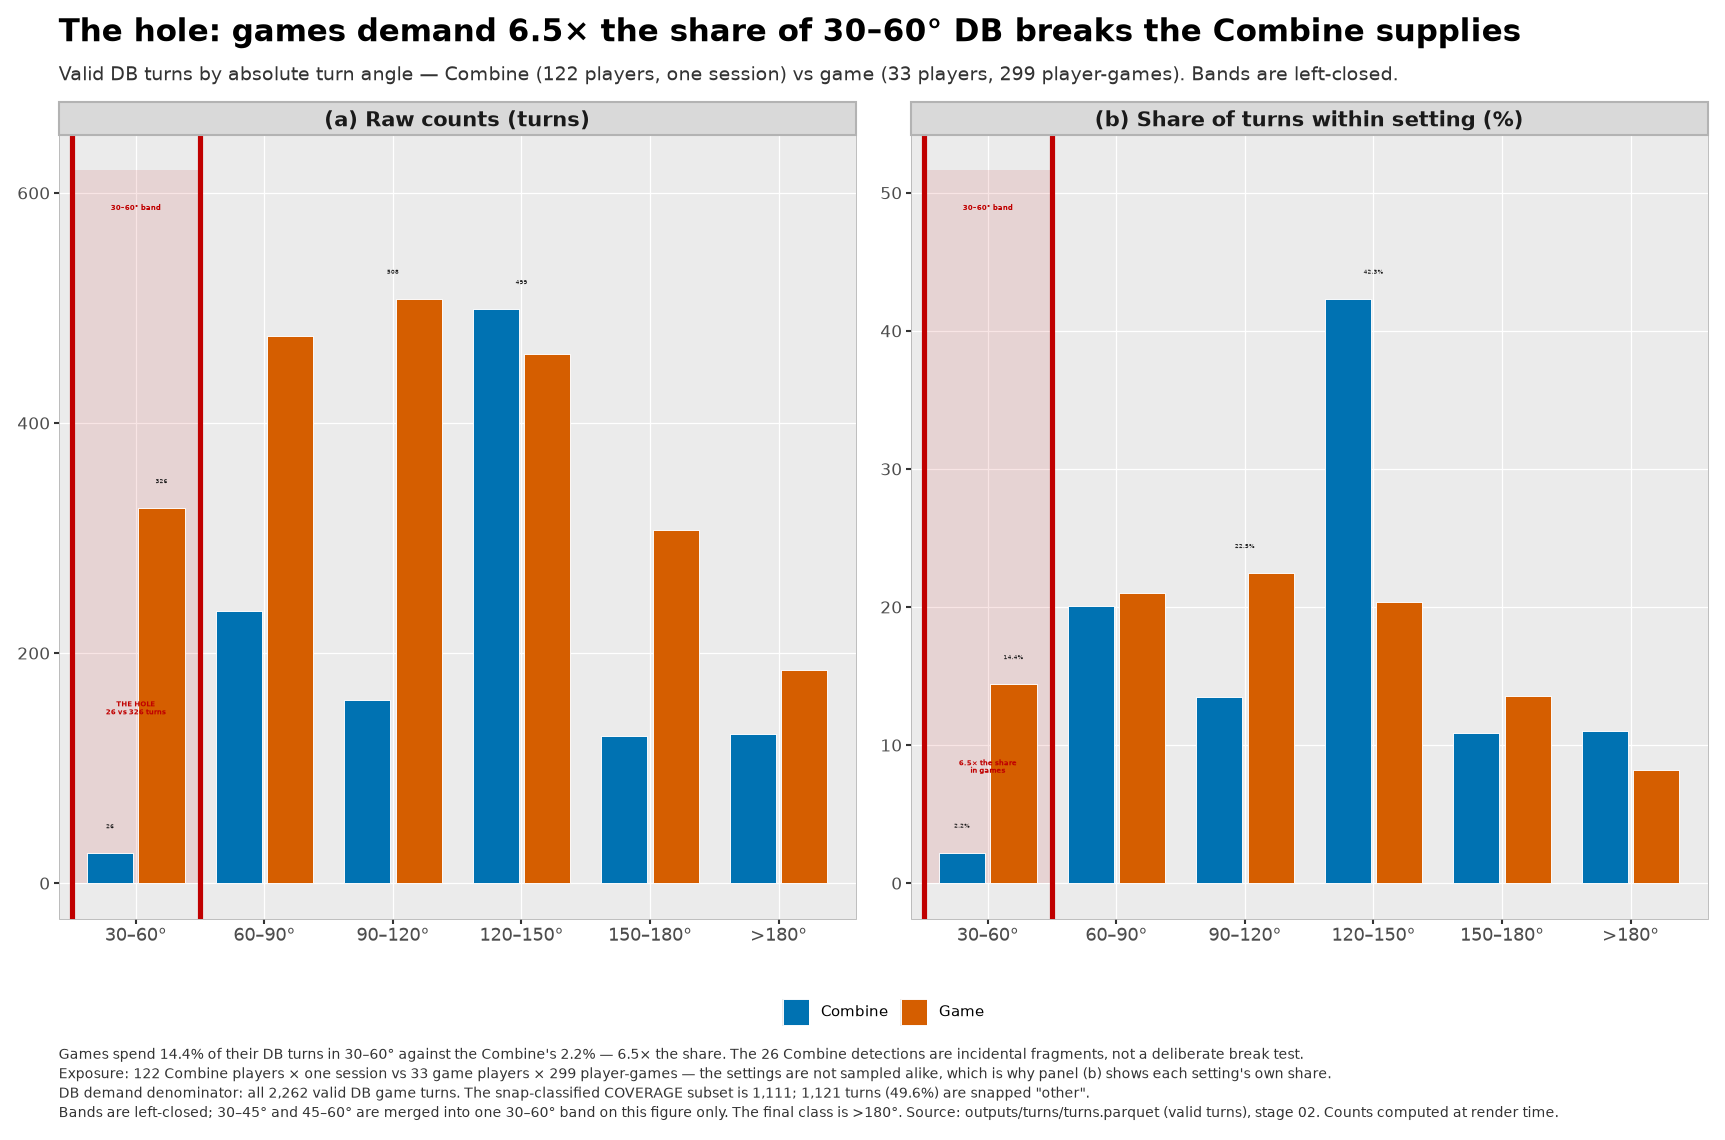
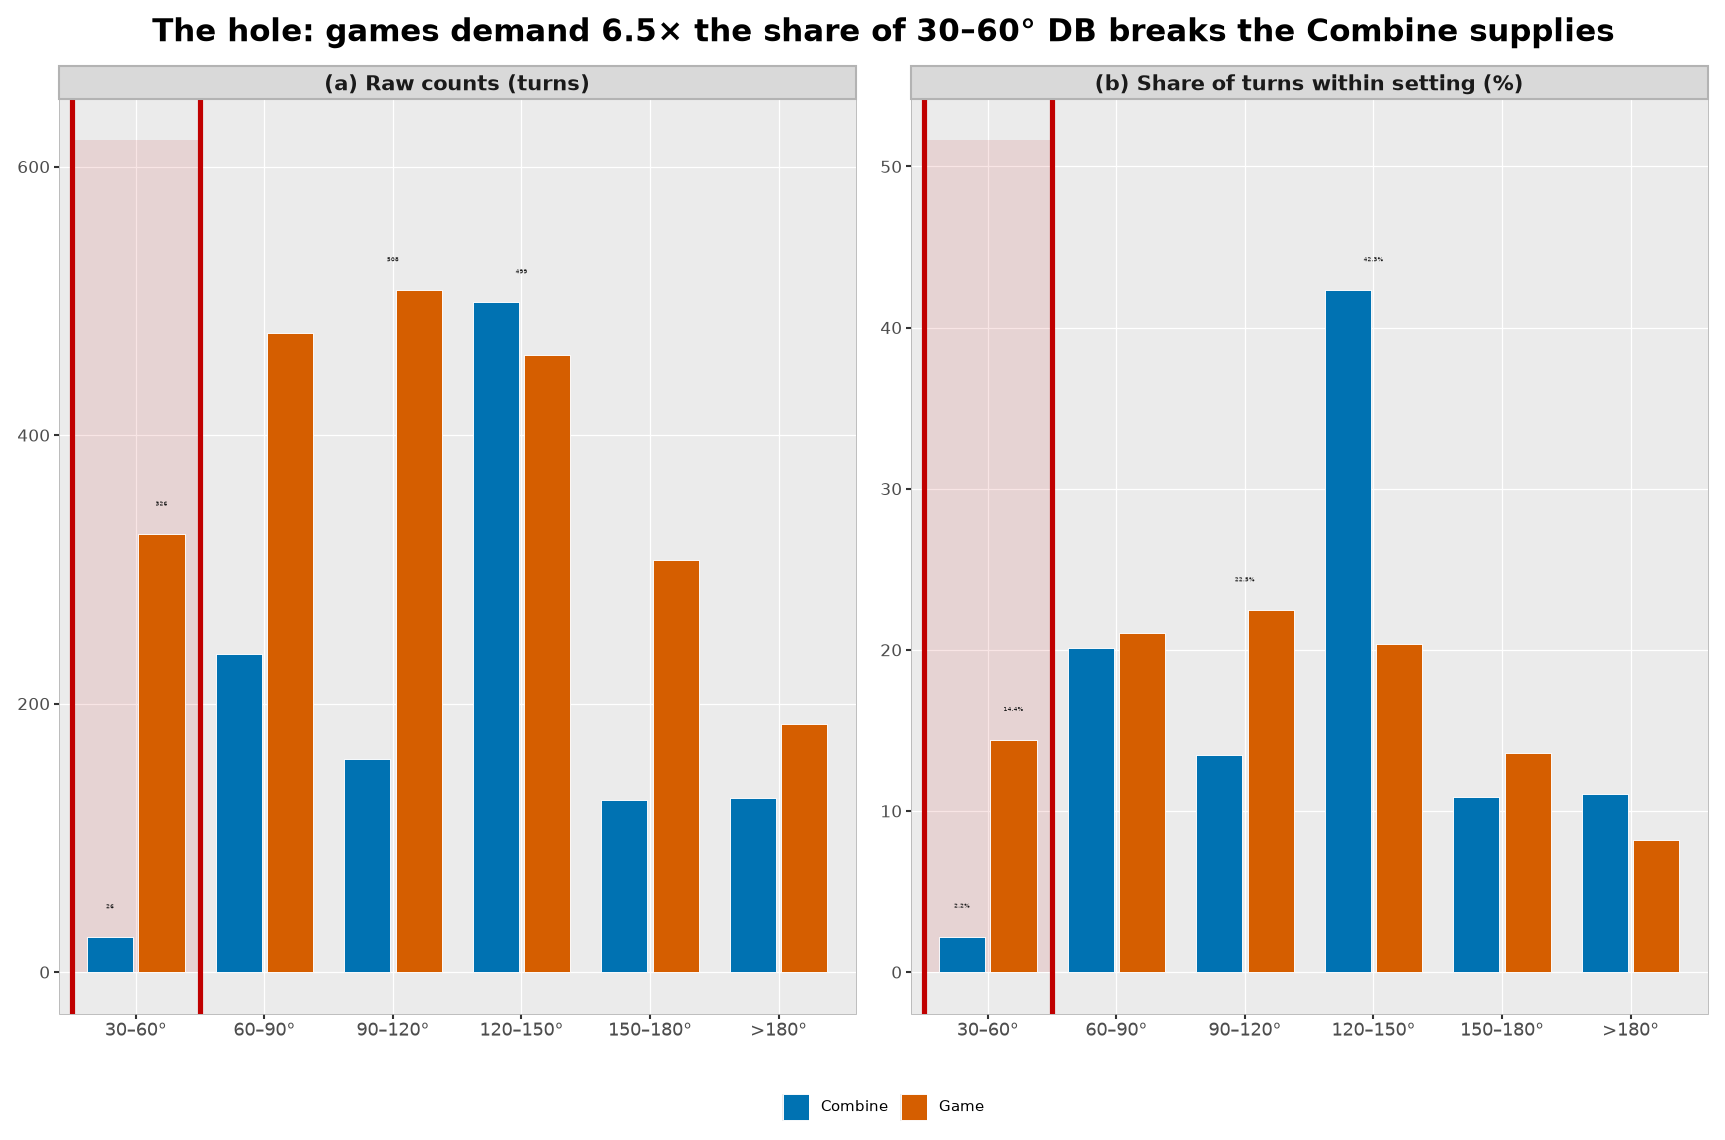
Figure 1: heading, bands and bars only — subtitle, caption and red callouts gone (D183)

diff --git a/src/bdb27/figures.py b/src/bdb27/figures.py
@@ -406,7 +406,13 @@ def _labels(table: pd.DataFrame, bands: list[str]) -> pd.DataFrame:
 
 
 def _annotations(table: pd.DataFrame, context: dict) -> tuple[pd.DataFrame, dict]:
-    """Highlight rectangles (one per panel) and the two callout texts."""
+    """Highlight rectangles (one per panel) and the two callout texts.
+
+    The rectangles are still drawn. The callout texts are not (D183,
+    2026-11-11): Conor removed the red on-plot copy, so ``ann["text"]`` is
+    retained for the contract tests and the ratio/counts it carries still
+    feed the title, the manifest and the CSV — only the drawing went.
+    """
     frame = plot_frame(table)
     rects = []
     for panel, part in frame.groupby("panel", observed=True):
@@ -453,44 +459,22 @@ def _annotations(table: pd.DataFrame, context: dict) -> tuple[pd.DataFrame, dict
                   "ratio": ratio, "combine_share": cs, "game_share": gs}
 
 
-def build_plot(table: pd.DataFrame, context: dict, cfg: common.Config) -> ggplot:
-    frame = plot_frame(table)
-    labels = _labels(table, context["bands"])
-    rect, ann = _annotations(table, context)
-    texts = ann["text"]
-    # Style always from figures.focus_band; geometry from this figure's own
-    # display bands (figure 1 merges 30-45 and 45-60 into one 30-60 band).
-    configured = focus_band(cfg)
-    focus = focus_band(cfg, edges=[float(e) for e in context["edges"][:2]])
-    if float(context["edges"][0]) != configured["low"]:
-        raise ValueError(
-            f"{STAGE}: figure 1 highlights its first display band, which must "
-            f"start at the configured focus floor {configured['low']:g}°; got "
-            f"{float(context['edges'][0]):g}°")
-    focus_label = pd.DataFrame([
-        {"panel": panel,
-         "x": 1.0,
-         "y": float(part["value"].max()) * 1.15,
-         "label": f"{focus['label']} band"}
-        for panel, part in frame.groupby("panel", observed=True)
-    ])
+def _caption_lines(context: dict, ann: dict) -> list[str]:
+    """Caption lines; every number comes from the rendered table.
 
+    Kept for the manifest/CSV wording, which still owns every caveat (D183,
+    2026-11-11): the figure draws no caption — Conor asked for the heading and
+    the data, nothing else — so this function is currently uncalled. Its
+    numbers still have to be true if it is ever drawn again.
+    """
     c = ann["combine"]
-    g = ann["game"]
     players = context["players_by_setting"]
     pg = context["player_games"]
     total = context["n_by_setting"]["game"]
     cov = context["coverage_turns"]
     other = context["other_turns"]
     other_pct = context["other_share"] * 100.0
-
-    title = (f"The hole: games demand {ann['ratio']:.1f}× the share of 30–60° "
-             "DB breaks the Combine supplies")
-    subtitle = (f"Valid {context['position']} turns by absolute turn angle — "
-                f"Combine ({players['combine']} players, one session) vs game "
-                f"({players['game']} players, {pg} player-games). Bands are left-closed.")
-
-    caption = "\n".join([
+    return [
         (f"Games spend {ann['game_share'] * 100.0:.1f}% of their DB turns in "
          f"30–60° against the Combine's {ann['combine_share'] * 100.0:.1f}% — "
          f"{ann['ratio']:.1f}× the share. The {c} Combine detections are "
@@ -504,9 +488,32 @@ def build_plot(table: pd.DataFrame, context: dict, cfg: common.Config) -> ggplot
         ("Bands are left-closed; 30–45° and 45–60° are merged into one 30–60° band "
          "on this figure only. The final class is >180°. Source: "
          "outputs/turns/turns.parquet (valid turns), stage 02. Counts computed at render time."),
-    ])
+    ]
+
+
+def build_plot(table: pd.DataFrame, context: dict, cfg: common.Config) -> ggplot:
+    frame = plot_frame(table)
+    labels = _labels(table, context["bands"])
+    rect, ann = _annotations(table, context)
+    # Style always from figures.focus_band; geometry from this figure's own
+    # display bands (figure 1 merges 30-45 and 45-60 into one 30-60 band).
+    configured = focus_band(cfg)
+    focus = focus_band(cfg, edges=[float(e) for e in context["edges"][:2]])
+    if float(context["edges"][0]) != configured["low"]:
+        raise ValueError(
+            f"{STAGE}: figure 1 highlights its first display band, which must "
+            f"start at the configured focus floor {configured['low']:g}°; got "
+            f"{float(context['edges'][0]):g}°")
+
+    title = (f"The hole: games demand {ann['ratio']:.1f}× the share of 30–60° "
+             "DB breaks the Combine supplies")
 
     dodge = position_dodge(width=0.8)
+    # Heading, bands and bars only (D183, 2026-11-11): no subtitle under the
+    # heading, no caption at the foot, and none of the three red callouts
+    # ("THE HOLE …", "…× the share", "… band"). The band tint and its two
+    # rules stay; every caveat the caption carried is in the CSV and the
+    # manifest entry, which are the provenance record.
     plot = (
         ggplot(frame, aes(x="band", y="value", fill="setting"))
         + geom_rect(data=rect, mapping=aes(xmin="xmin", xmax="xmax",
@@ -520,19 +527,11 @@ def build_plot(table: pd.DataFrame, context: dict, cfg: common.Config) -> ggplot
                                              group="setting"),
                     position=dodge, size=2.9, colour="#1A1A1A", va="bottom",
                     show_legend=False)
-        + geom_text(data=texts, mapping=aes(x="x", y="y", label="label"),
-                    inherit_aes=False, size=3.2, colour=focus["colour"],
-                    fontweight="bold",
-                    ha="center", va="center")
-        + geom_text(data=focus_label, mapping=aes(x="x", y="y", label="label"),
-                    inherit_aes=False, size=3.3, colour=focus["colour"],
-                    fontweight="bold", ha="center", va="bottom")
         + facet_wrap("~ panel", nrow=1, scales="free_y")
         + scale_fill_manual(values=[PALETTE["combine"], PALETTE["game"]],
                             labels=[COMBINE_LABEL, GAME_LABEL], name=None)
         + scale_x_discrete(limits=list(context["bands"]))
-        + labs(title=title, subtitle=subtitle, caption=caption,
-               x=None, y=None)
+        + labs(title=title, x=None, y=None)
         + theme_bw(base_size=9)
         + theme(
             figure_size=(float(cfg.get("figures.hole.width_in")),
@@ -544,9 +543,6 @@ def build_plot(table: pd.DataFrame, context: dict, cfg: common.Config) -> ggplot
             strip_background=element_rect(fill="#D9D9D9", colour="#B3B3B3"),
             strip_text=element_text(weight="bold", size=10),
             plot_title=element_text(size=15, weight="bold"),
-            plot_subtitle=element_text(size=9.0, colour="#333333"),
-            plot_caption=element_text(size=6.9, colour="#333333", ha="left",
-                                      linespacing=1.35),
             axis_title_x=element_blank(),
             axis_title_y=element_blank(),
             axis_text_x=element_text(size=8.5),

diff --git a/tests/test_figures_stage.py b/tests/test_figures_stage.py
@@ -464,6 +464,111 @@ def test_csv_matches_artefact_counts_for_every_band(rendered):
     _check_counts(csv_df, turns, HOLE_EDGES)
 
 
+def _hole_cells(rendered):
+    """Figure 1's table, context and config, rebuilt from the fixture render."""
+    from bdb27 import common, figures
+
+    turns = pd.read_parquet(rendered["tmp"] / "outputs" / "turns" / "turns.parquet")
+    cfg = common.load_config(rendered["cfg"])
+    edges = [float(x) for x in
+             cfg.get("figures.hole.plot_bands.turn_angle_deg")]
+    overflow = str(cfg.get("figures.hole.bands.overflow_label"))
+    position = str(cfg.get("figures.hole.position_group"))
+    table, context = figures.band_table(turns, edges, overflow, position)
+    return table, context, cfg
+
+
+def test_hole_draws_a_heading_and_nothing_else(rendered):
+    """D183: heading, bands and bars only — no subtitle, caption or red text."""
+    import matplotlib
+    import matplotlib.pyplot as plt
+
+    from bdb27 import figures
+
+    table, context, cfg = _hole_cells(rendered)
+    plot = figures.build_plot(table, context, cfg)
+    fig = plot.draw()
+    try:
+        visible = [t.get_text() for t in fig.texts
+                   if t.get_visible() and t.get_text().strip()]
+        headings = [text for text in visible if text.startswith("The hole:")]
+        assert len(headings) == 1, (
+            f"figure 1 must draw exactly one heading, got {visible}")
+        assert headings[0] == (
+            "The hole: games demand 6.5× the share of 30–60° DB breaks the "
+            "Combine supplies")
+        assert visible == headings, (
+            f"unexpected figure-level text: {visible}")
+
+        drawn = "\n".join(
+            [t.get_text() for t in fig.texts if t.get_visible()]
+            + [t.get_text() for ax in fig.axes for t in ax.texts
+               if t.get_visible()]
+            + [t.get_text() for ax in fig.axes for t in ax.get_xticklabels()
+               if t.get_visible()]
+            + [t.get_text() for ax in fig.axes for t in ax.get_yticklabels()
+               if t.get_visible()])
+        assert "Valid DB turns by absolute turn angle" not in drawn, (
+            "the subtitle is still drawn")
+        assert "incidental fragments, not a deliberate break test" not in drawn, (
+            "the caption block is still drawn at the foot of the figure")
+        assert "DB demand denominator" not in drawn, (
+            "the caption block is still drawn at the foot of the figure")
+        assert "THE HOLE" not in drawn, (
+            "the panel (a) red callout is still drawn")
+        assert "× the share\nin games" not in drawn, (
+            "the panel (b) red ratio callout is still drawn")
+        assert "30–60° band" not in drawn, (
+            "the red focus-band tag is still drawn")
+
+        # No text at all in the focus colour: the three callouts were the only
+        # red text, and the band tint/rules are not text.
+        from matplotlib.colors import to_hex
+        red_text = [t.get_text() for t in fig.findobj(matplotlib.text.Text)
+                    if t.get_visible() and t.get_text().strip()
+                    and to_hex(t.get_color()).lower() == "#c00000"]
+        assert red_text == [], f"red on-plot text survived: {red_text}"
+
+        # Kept by the same change: the bar data labels, band tick labels,
+        # facet strips and the colour legend.
+        all_text = [t.get_text() for t in fig.findobj(matplotlib.text.Text)
+                    if t.get_visible() and t.get_text().strip()]
+        for label in ("26", "326", "2.2%", "42.3%"):
+            assert label in all_text, f"bar data label {label} disappeared"
+        for band in ("30–60°", "60–90°", "90–120°", "120–150°",
+                     "150–180°", ">180°"):
+            assert band in all_text, f"band label {band} disappeared"
+        assert "Combine" in all_text and "Game" in all_text, (
+            "the colour legend labels must stay drawn")
+        assert "(a) Raw counts (turns)" in all_text
+        assert "(b) Share of turns within setting (%)" in all_text
+    finally:
+        plt.close(fig)
+
+
+def test_hole_canvas_has_no_dead_band(rendered):
+    """The freed subtitle/caption space goes to the plot, not to white bands."""
+    import matplotlib.pyplot as plt
+
+    from bdb27 import figures
+
+    table, context, cfg = _hole_cells(rendered)
+    fig = figures.build_plot(table, context, cfg).draw()
+    out = rendered["tmp"] / "hole_canvas.png"
+    try:
+        fig.savefig(out, dpi=150, facecolor="white",
+                    metadata={"Software": "bdb27-figures"})
+    finally:
+        plt.close(fig)
+    with Image.open(out) as im:
+        pixels = np.asarray(im.convert("RGB"))
+    rows = np.where(np.any(pixels < 250, axis=2).any(axis=1))[0]
+    top_blank = int(rows.min())
+    bottom_blank = int(pixels.shape[0] - 1 - rows.max())
+    assert top_blank <= 30, f"{top_blank} px of white above the heading"
+    assert bottom_blank <= 30, f"{bottom_blank} px of white below the legend"
+
+
 def test_provenance_stamp_in_csv_and_manifest(rendered):
     csv_df = pd.read_csv(rendered["csv"])
     assert csv_df["stamp"].eq(STAMP).all()

diff --git a/notes/decisions.md b/notes/decisions.md
@@ -7104,3 +7104,74 @@ the two caption-prose tests read the retained uncalled caption builder. In
 `get_colors()`: with the callout text gone, figure 5's configured focus colour
 reaches the canvas through the band rules (`LineCollection`), which the old
 walk could not see.
+
+### D183 (extended) — figure 1 carries a heading, bands and bars, nothing else · 2026-11-11 09:40
+
+**The instruction (Conor, 2026-11-11 09:13, verbatim, sent against the rendered
+image).** "In this plot 'the hole, game demands 6.5x the share 30 to 60...'
+Remove the text under the title, the red text on the plot, and the text
+underneath". This is the treatment figures 18 (`06702a0`) and 5 (`670a790`)
+already received, now applied to figure 1; the figure, its contract and its
+caveats are the same artefact, so D183 is extended rather than a new decision
+opened.
+
+**What was removed.** Four text blocks and nothing else. (1) The subtitle under
+the heading (`labs(subtitle=…)`), the grey "Valid DB turns by absolute turn
+angle — Combine (N players, one session) vs game (N players, N player-games).
+Bands are left-closed." The bold heading stays, and it keeps the live ratio
+("6.5×"). (2) The whole bottom caption block (`labs(caption=…)`), all four
+caption lines — the exposure, denominator, merge and provenance sentences.
+Nothing textual remains at the foot except the Combine/Game legend. (3) All
+three red on-plot texts, all in `figures.focus_band.colour` (#C00000): the
+panel (a) callout "THE HOLE\n{c} vs {g} turns", the panel (b) callout
+"{ratio:.1f}× the share\nin games", and the per-panel "{focus['label']} band"
+tag. The band tint rectangle, its two vertical rules and the panel border stay
+exactly as drawn.
+
+**What the removal is not.** No number, caveat or claim was dropped from the
+artefact. The caption construction moved into `_caption_lines()`, which builds
+the same prose from the same render-time values and is currently uncalled; its
+docstring says so, following `_da_caption` on figure 18 and
+`_all_positions_caption()` on figure 5. `_annotations()` still returns the same
+rectangles, callout strings, counts and ratio: the strings no longer reach the
+canvas, but `ann["ratio"]` still feeds the title and `ann["combine"]`,
+`ann["game"]`, `ann["combine_share"]`, `ann["game_share"]` still feed the
+manifest. The two guards are untouched and still refuse: the first-band-is-the-
+largest-proportional-shortfall check inside `_annotations()`, and the
+`context["edges"][0]` focus-floor check inside `build_plot()`. Only the drawing
+went. The proof that this is a drawing-only change is `fig_the_hole.csv`:
[1 lines of base64/hex data omitted]
+identical before and after.
+
+**Layout.** With the subtitle and caption gone the panels and legend reflowed to
+fill the canvas; no config change was needed and `config.yaml` is untouched.
+Canvas is 11.5 × 7.6 in at 150 dpi = 1725 × 1140 px (unchanged). Measured on the
+committed render: top white band 17 px (0.11 in above the heading), bottom white
+band 19 px (0.13 in below the legend), left/right 18/16 px. The heading's bottom
+sits at 48.8 px and the facet strips start at 74.4 px — a 25.6 px (0.17 in)
+heading gap. The longest blank vertical run anywhere is 58 px (0.39 in), the
+interior gap between the band tick labels (bottom 1,039.8 px) and the legend
+text (top 1,099.4 px); both canvas edges are filled.
+
+**Draw unchanged.** The paired bars and their dodging, the dark data labels on
+the bars (counts in panel (a), percentages in panel (b)), the band tick labels,
+the facet strips, the panel background and border, the band tint and its two
+red rules, and the bottom Combine/Game legend are all exactly as before. Only
+the four text blocks above stopped being drawn.
+
+**Proof nothing else moved.** `outputs/figures/fig_the_hole.png` is the only PNG
+that changes (133,214 → 57,636 bytes; SHA-256 265c9da2…b295b2d →
+5643d706…604462); all 17 other figure PNGs are byte-identical (SHA-256). Every
+figure CSV is byte-identical, `config_sha` included — `config.yaml` does not
+change. The manifest changes only in its top-level `generated_utc`; the
+`fig_the_hole` entry, caveats and claim included, is unchanged. `run_log.csv`
+gains the one line every stage-06 run appends. Two consecutive stage renders of
+figure 1 are byte-identical (5643d706…604462 both times).
+
+**Tests.** `tests/test_figures_stage.py` keeps every figure-1 test and adds two:
+`test_hole_draws_a_heading_and_nothing_else` fails if a subtitle, the caption
+block, "THE HOLE", the "× the share\nin games" callout or the "30–60° band" tag
+is ever drawn back, and fails if any drawn text uses the focus colour, while
+asserting the bar data labels, band labels, facet strips and legend are still
+drawn; `test_hole_canvas_has_no_dead_band` fails if more than 30 px of white
+sits above the heading or below the legend.
